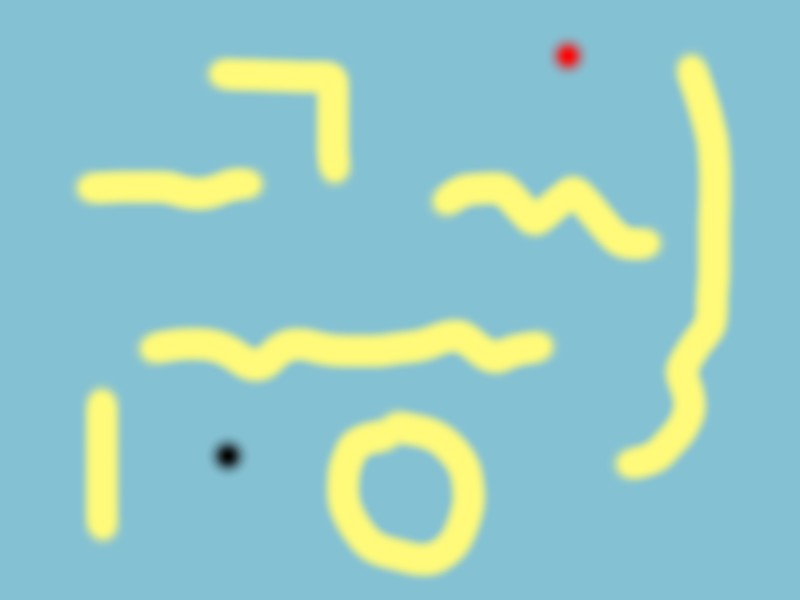
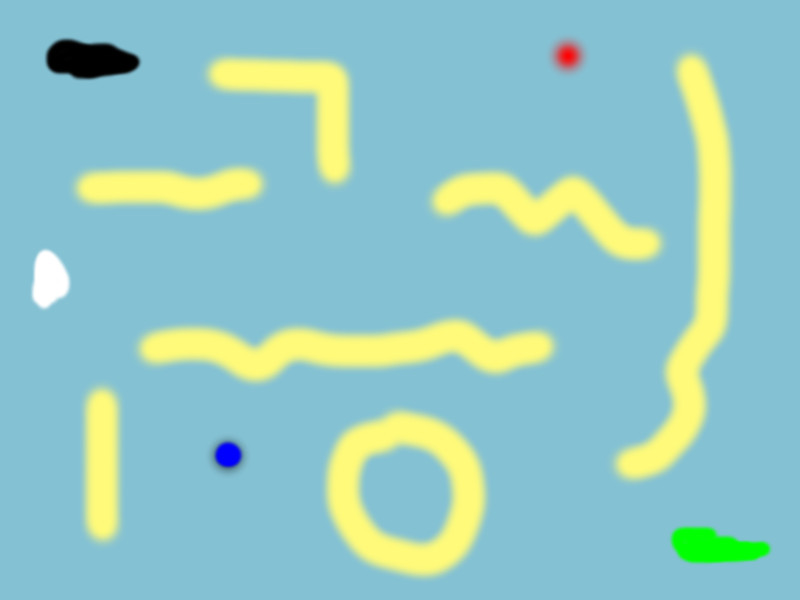
Used filtering and segmentation to identify start/goal locatoons

diff --git a/src/fun/leilabadi/pathfinder/PathFinderBuilder.java b/src/fun/leilabadi/pathfinder/PathFinderBuilder.java
@@ -2,10 +2,14 @@ package fun.leilabadi.pathfinder;
 
 import fun.leilabadi.pathfinder.common.Location;
 import fun.leilabadi.pathfinder.common.Size;
-import fun.leilabadi.pathfinder.imageprocessing.Constants;
 import fun.leilabadi.pathfinder.imageprocessing.MapProcessor;
 import marvin.color.MarvinColorModelConverter;
 import marvin.image.MarvinImage;
+import marvin.image.MarvinSegment;
+
+import java.util.ArrayList;
+
+import static marvin.MarvinPluginCollection.floodfillSegmentation;
 
 public class PathFinderBuilder {
 
@@ -54,19 +58,40 @@ public class PathFinderBuilder {
 
         Size size = new Size(map.getHeight(), map.getWidth());
 
-        MarvinImage binary = MarvinColorModelConverter.rgbToBinary(map, Constants.BYTE_MID);
-
         Cell[][] cells = new Cell[size.getRowCount()][size.getColumnCount()];
         for (int y = 0; y < size.getRowCount(); y++) {
             for (int x = 0; x < size.getColumnCount(); x++) {
-                cells[y][x] = new Cell(binary.getBinaryColor(x, y) ? CellType.OBSTACLE : CellType.EMPTY);
+                cells[y][x] = new Cell(map.getBinaryColor(x, y) ? CellType.OBSTACLE : CellType.EMPTY);
             }
         }
 
-        //TODO: find start and goal and decrease resolution when converting to ui grid
+        MarvinImage filteredImage;
+        MarvinSegment[] segments;
+        filteredImage = mapProcessor.getFilters().getAlmostBlue().getImage();
+        filteredImage = MarvinColorModelConverter.binaryToRgb(filteredImage);
+        segments = floodfillSegmentation(filteredImage);
+        MarvinSegment startSegment = getTargetSegment(map, segments);
 
-        Location startLocation = new Location(1, 1);
-        Location goalLocation = new Location(2, 2);
+        filteredImage = mapProcessor.getFilters().getAlmostRed().getImage();
+        filteredImage = MarvinColorModelConverter.binaryToRgb(filteredImage);
+        segments = floodfillSegmentation(filteredImage);
+        MarvinSegment goalSegment = getTargetSegment(map, segments);
+
+        Location startLocation = new Location(startSegment.y1, startSegment.x1);
+        Location goalLocation = new Location(goalSegment.y1, goalSegment.x1);
+        //TODO: decrease resolution when converting to ui grid
         return new HeuristicPathFinder(size, startLocation, goalLocation, cells);
+    }
+
+    private MarvinSegment getTargetSegment(MarvinImage map, MarvinSegment[] segments) {
+        java.util.List<MarvinSegment> list = new ArrayList<>();
+        for (MarvinSegment seg : segments) {
+            if (seg.width == map.getWidth() && seg.height == map.getHeight())
+                continue;
+            else
+                list.add(seg);
+        }
+        if (list.size() != 1) throw new RuntimeException("Error identifying start/goal point.");
+        return list.get(0);
     }
 }

diff --git a/src/fun/leilabadi/pathfinder/ui/MapProcessorApp.java b/src/fun/leilabadi/pathfinder/ui/MapProcessorApp.java
@@ -24,16 +24,6 @@ public class MapProcessorApp {
 
         MarvinImageIO.saveImage(map, directoryPath + processedMapFileName);
 
-        /*MarvinImageIO.saveImage(mapProcessor.getFilters().getRed().getImage(), directoryPath + "red.png");
-        MarvinImageIO.saveImage(mapProcessor.getFilters().getGreen().getImage(), directoryPath + "green.png");
-        MarvinImageIO.saveImage(mapProcessor.getFilters().getBlue().getImage(), directoryPath + "blue.png");
-        MarvinImageIO.saveImage(mapProcessor.getFilters().getJustRed().getImage(), directoryPath + "just-red.png");
-        MarvinImageIO.saveImage(mapProcessor.getFilters().getJustGreen().getImage(), directoryPath + "just-green.png");
-        MarvinImageIO.saveImage(mapProcessor.getFilters().getJustBlue().getImage(), directoryPath + "just-blue.png");
-        MarvinImageIO.saveImage(mapProcessor.getFilters().getAlmostRed().getImage(), directoryPath + "almost-red.png");
-        MarvinImageIO.saveImage(mapProcessor.getFilters().getAlmostGreen().getImage(), directoryPath + "almost-green.png");
-        MarvinImageIO.saveImage(mapProcessor.getFilters().getAlmostBlue().getImage(), directoryPath + "almost-blue.png");*/
-
         /*for (int i = 1; i < 7; i++) {
             MarvinImageIO.saveImage(mapProcessor.getProcessedImages().get(i), directoryPath + "image-" + i + ".png");
         }*/
